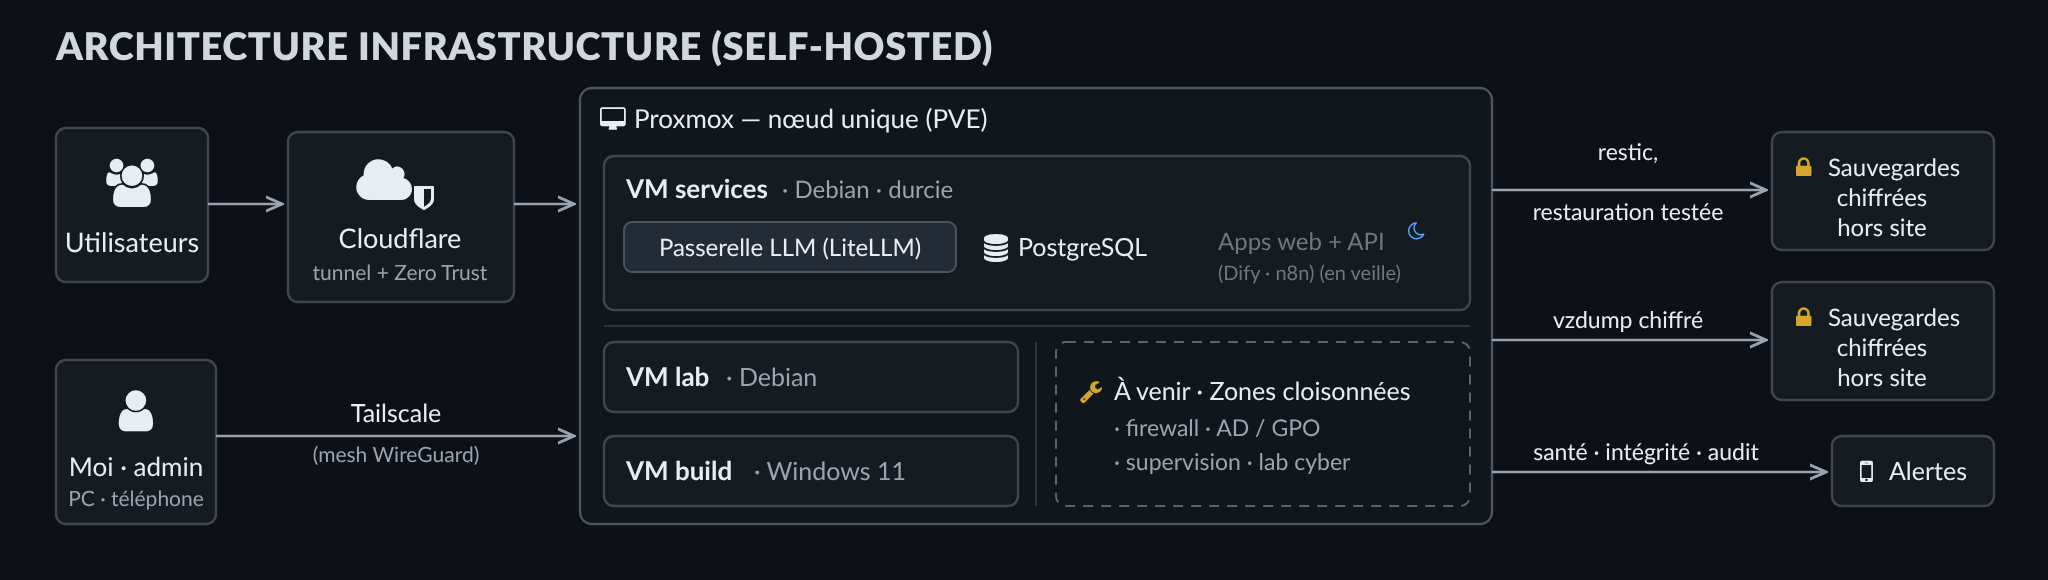
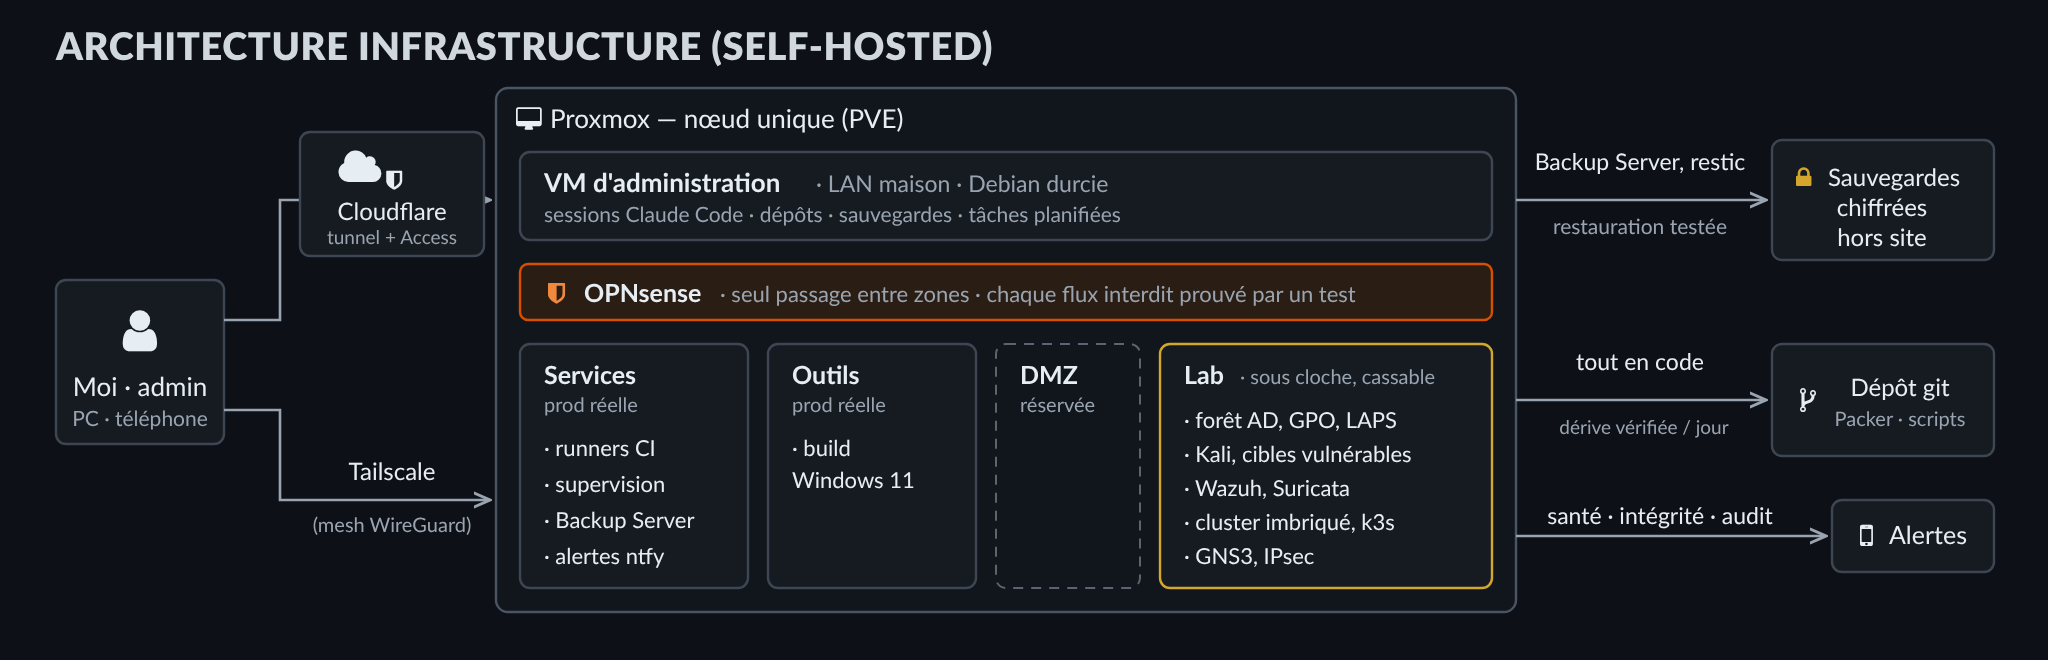
[docs] profil : homelab et outils remis à jour, schéma redessiné
Texte du 10/10 dépassé : zones, AD, supervision et lab cyber marqués « à venir » alors que
construits ; LiteLLM, Dify, n8n, PostgreSQL et proxy Docker affichés alors qu'arrêtés sur
cosmos. Ajout des zones OPNsense, de PBS, de la supervision et du contenu réel du lab.
Validé par Sinse le 04/11.

diff --git a/README.md b/README.md
@@ -19,31 +19,39 @@ Une session Claude Code tourne en permanence sur mon serveur. Je la pilote depui
 - **Boucles autonomes bridées** — une veille IA hebdomadaire tourne seule : lecture web uniquement, écrit dans le vault, modèle économique, kill-switch
 - **Bibliothèque** — 110+ fiches de lecture et synthèses de recherche, ingérées depuis des PDF, consultables par les agents
 - **Poste de travail** — PC Windows double écran, VM Windows 11 pilotée depuis le serveur pour tester les builds, session principale joignable depuis le téléphone
-- **Passerelle LLM maison** — LiteLLM devant plusieurs fournisseurs, orchestration Dify et n8n pour les apps
 
 ### 🧱 Le homelab
 
-<img src="assets/homelab.png" alt="Architecture du homelab : Cloudflare et Tailscale vers Proxmox, VM services, lab et build Windows, sauvegardes chiffrées hors site, alertes" width="100%">
+<img src="assets/homelab.png" alt="Architecture du homelab : Proxmox, pare-feu OPNsense devant quatre zones (services, outils, DMZ, lab), VM d'administration sur le LAN, accès par Cloudflare Tunnel et Tailscale, sauvegardes PBS et restic chiffrées hors site, alertes" width="100%">
 
-- **Publication par tunnel sortant** — Cloudflare Tunnel + Zero Trust Access devant chaque service, pas de redirection de port
-- **Administration à distance par réseau privé** — Tailscale (mesh WireGuard) entre PC, téléphone, hyperviseur et serveur
-- **Sauvegardes vérifiées, pas supposées** — restic avec test de restauration automatique, copie froide, sauvegardes de VM chiffrées hors site
+- **Zones cloisonnées** — un pare-feu OPNsense en VM est le seul passage vers quatre zones (services, outils, DMZ, lab) ; chaque flux interdit est prouvé par un test qui doit échouer
+- **Prod réelle, lab sous cloche** — la prod ne sert que de vrais besoins et ne se casse jamais : pour l'abîmer, on la clone au lab
+- **Aucune redirection de port** — administration par Cloudflare Tunnel + Access (code à usage unique) et Tailscale (mesh WireGuard) entre PC, téléphone et serveurs
+- **Sauvegardes vérifiées, pas supposées** — Proxmox Backup Server sur disques dédiés, copies chiffrées hors site ; restic avec test de restauration automatique
+- **Supervision** — Prometheus, Alertmanager, Grafana, Loki ; alertes sur téléphone par un serveur ntfy auto-hébergé
+- **Tout en code** — modèles de VM Packer, scripts versionnés, contrôle quotidien de dérive entre l'infra réelle et le dépôt
 - **Secrets hors du code** — chiffrés (sops), et chaque commit passe un détecteur de secrets
-- **Supervision** — tests de santé planifiés (timers systemd), alertes sur téléphone
 - **Procédures de reprise écrites** — et déjà utilisées sur incident réel
 
-**En construction — `socle`**, selon quatre règles : les frontières réseau sont *appliquées*, pas supposées · tout est *reconstructible*, et ça a été prouvé · on sait que c'est cassé *avant* l'utilisateur · chaque décision est écrite, le *pourquoi* plutôt que le *quoi*.
-Première décision sur la table : Tailscale passe par-dessus tout cloisonnement — son statut se tranche *avant* de poser les zones, pas après.
+**Le lab — `socle`**, monté par agents et décortiqué brique par brique :
+
+- **Identité Windows** — forêt AD à deux contrôleurs, DHCP en basculement, GPO, LAPS, AD CS, WSUS, déploiement de logiciels, GLPI authentifié par l'AD
+- **Réseau et sécurité** — GNS3, second pare-feu relié en IPsec, Suricata en IPS, bastion Guacamole
+- **Attaque et détection** — Kali, cibles vulnérables (DVWA, Metasploitable), AD volontairement faillible, scans Greenbone, Wazuh
+- **Virtualisation et conteneurs** — cluster Proxmox imbriqué (HA, Ceph), Docker Swarm, k3s
+- **Cloud** — stockage S3 local (Garage), Terraform
+- **Recette** — tout reconstruire depuis zéro, une commande par brique (en cours)
 
 ### 🛡 Sécurité
 
 **Sur le serveur**
+
 - SSH par clé uniquement, port non standard · fail2ban · pare-feu ufw · mises à jour de sécurité automatiques
 - **auditd**, **AIDE** (intégrité des fichiers, contrôle hebdo) et **Lynis** (audit système hebdo) — alertes sur téléphone
-- Conteneurs durcis (capabilities réduites au strict nécessaire), socket Docker derrière un proxy
 - **Bac à sable** pour tout code tiers : système de fichiers isolé, sorties réseau sur liste blanche
 
 **Dans les applications** (AcademIA)
+
 - Sessions opaques Redis + CSRF, mots de passe Argon2id, CSP en mode bloquant, MFA TOTP (secret chiffré au repos)
 - LLM : nettoyage des données personnelles, isolation entre utilisateurs, limites de débit et de coût
 - Cloudflare : WAF, HSTS, DMARC · dépendances surveillées (Dependabot + audit en CI)
@@ -71,9 +79,11 @@ Première décision sur la table : Tailscale passe par-dessus tout cloisonnement
 
 ### 🛠 Outils
 
-**Infra** ![Proxmox](https://img.shields.io/badge/Proxmox-E57000?style=flat-square&logo=proxmox&logoColor=white) ![Debian](https://img.shields.io/badge/Debian-A81D33?style=flat-square&logo=debian&logoColor=white) ![Docker](https://img.shields.io/badge/Docker-2496ED?style=flat-square&logo=docker&logoColor=white) ![Cloudflare Zero Trust](https://img.shields.io/badge/Cloudflare_Zero_Trust-F38020?style=flat-square&logo=cloudflare&logoColor=white) ![PostgreSQL](https://img.shields.io/badge/PostgreSQL-4169E1?style=flat-square&logo=postgresql&logoColor=white) ![restic](https://img.shields.io/badge/restic-2F3640?style=flat-square) ![sops](https://img.shields.io/badge/sops-2F3640?style=flat-square) ![Tailscale](https://img.shields.io/badge/Tailscale-242424?style=flat-square&logo=tailscale&logoColor=white) ![Windows 11](https://img.shields.io/badge/Windows_11-0078D4?style=flat-square&logo=windows&logoColor=white)
+**Infra** ![Proxmox](https://img.shields.io/badge/Proxmox-E57000?style=flat-square&logo=proxmox&logoColor=white) ![Debian](https://img.shields.io/badge/Debian-A81D33?style=flat-square&logo=debian&logoColor=white) ![Docker](https://img.shields.io/badge/Docker-2496ED?style=flat-square&logo=docker&logoColor=white) ![OPNsense](https://img.shields.io/badge/OPNsense-D94F00?style=flat-square&logo=opnsense&logoColor=white) ![Proxmox Backup Server](https://img.shields.io/badge/Proxmox_Backup_Server-E57000?style=flat-square&logo=proxmox&logoColor=white) ![Packer](https://img.shields.io/badge/Packer-02A8EF?style=flat-square&logo=packer&logoColor=white) ![Active Directory](https://img.shields.io/badge/Active_Directory-0078D4?style=flat-square&logo=windows&logoColor=white) ![Cloudflare Zero Trust](https://img.shields.io/badge/Cloudflare_Zero_Trust-F38020?style=flat-square&logo=cloudflare&logoColor=white) ![restic](https://img.shields.io/badge/restic-2F3640?style=flat-square) ![sops](https://img.shields.io/badge/sops-2F3640?style=flat-square) ![Tailscale](https://img.shields.io/badge/Tailscale-242424?style=flat-square&logo=tailscale&logoColor=white) ![Windows 11](https://img.shields.io/badge/Windows_11-0078D4?style=flat-square&logo=windows&logoColor=white)
 
-**IA** ![Claude Code](https://img.shields.io/badge/Claude_Code-D97757?style=flat-square&logo=claude&logoColor=white) ![LiteLLM](https://img.shields.io/badge/LiteLLM-4B0082?style=flat-square) ![Dify](https://img.shields.io/badge/Dify-1C64F2?style=flat-square) ![n8n](https://img.shields.io/badge/n8n-EA4B71?style=flat-square&logo=n8n&logoColor=white) ![Obsidian](https://img.shields.io/badge/Obsidian-7C3AED?style=flat-square&logo=obsidian&logoColor=white)
+**Supervision et sécurité** ![Prometheus](https://img.shields.io/badge/Prometheus-E6522C?style=flat-square&logo=prometheus&logoColor=white) ![Grafana](https://img.shields.io/badge/Grafana-F46800?style=flat-square&logo=grafana&logoColor=white) ![Wazuh](https://img.shields.io/badge/Wazuh-3D9BF0?style=flat-square) ![Suricata](https://img.shields.io/badge/Suricata-EF7D00?style=flat-square) ![Kali Linux](https://img.shields.io/badge/Kali_Linux-557C94?style=flat-square&logo=kalilinux&logoColor=white)
+
+**IA** ![Claude Code](https://img.shields.io/badge/Claude_Code-D97757?style=flat-square&logo=claude&logoColor=white) ![Obsidian](https://img.shields.io/badge/Obsidian-7C3AED?style=flat-square&logo=obsidian&logoColor=white)
 
 **Dev** ![Python](https://img.shields.io/badge/Python-3776AB?style=flat-square&logo=python&logoColor=white) ![Bash](https://img.shields.io/badge/Bash-4EAA25?style=flat-square&logo=gnubash&logoColor=white) ![SvelteKit](https://img.shields.io/badge/SvelteKit-FF3E00?style=flat-square&logo=svelte&logoColor=white) ![FastAPI](https://img.shields.io/badge/FastAPI-009688?style=flat-square&logo=fastapi&logoColor=white) ![Godot](https://img.shields.io/badge/Godot-478CBF?style=flat-square&logo=godotengine&logoColor=white)
 
